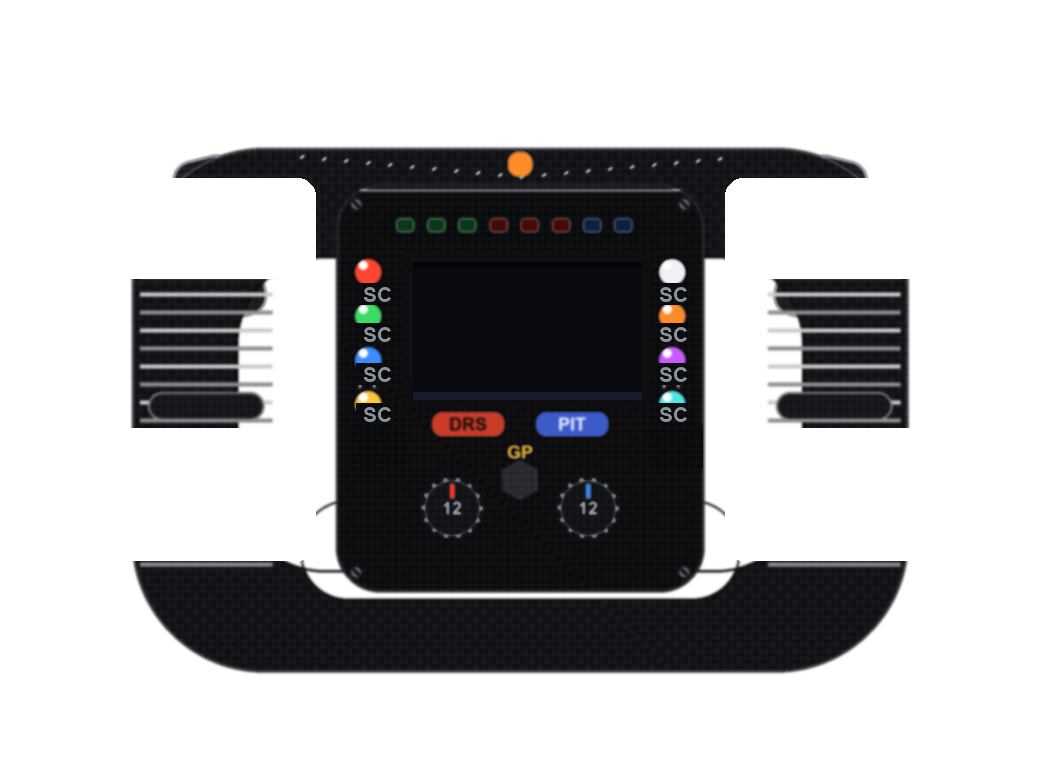
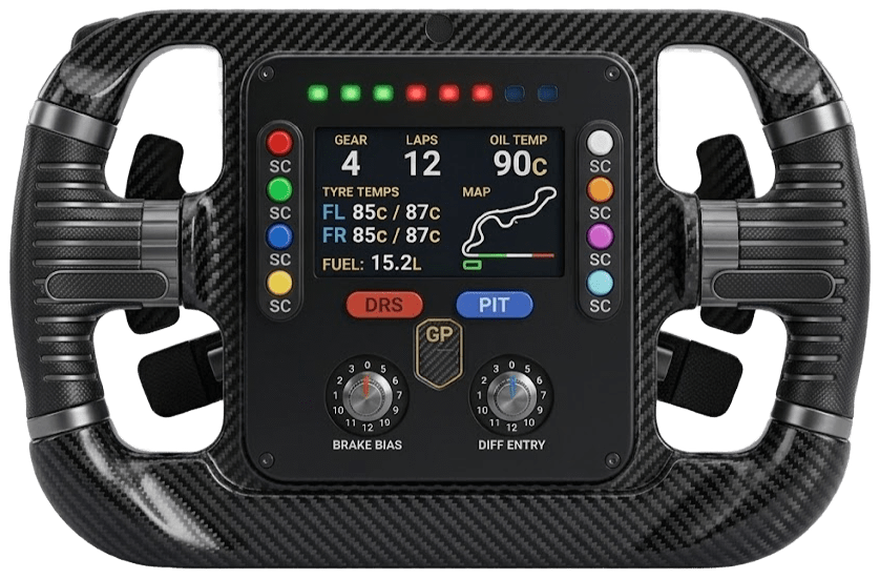
Nuevo volante F1 real: imagen de carbono con huecos, overlays realineados
Generated with [Devin](https://devin.ai)

diff --git a/index.html b/index.html
@@ -251,7 +251,7 @@
   @keyframes wLedBlink { 50% { filter: brightness(0.15); } }
   @keyframes wLedGlint { 0%, 82%, 100% { filter: brightness(1); } 90% { filter: brightness(2.8); } }
   /* Grados de giro: texto naranja muy pequeño sobre el centro del volante */
-  #wheelDeg { position: absolute; left: 50.65%; top: 41.5%; transform: translate(-50%, -50%);
+  #wheelDeg { position: absolute; left: 50.1%; top: 33.3%; transform: translate(-50%, -50%);
     z-index: 7; pointer-events: none; opacity: 1;
     color: #ff9838; font-size: 11px; font-weight: 800; letter-spacing: 1px;
     text-shadow: 0 0 6px rgba(0,0,0,0.95), 0 1px 3px rgba(0,0,0,0.9); }
@@ -1148,21 +1148,21 @@
   <div id="wheelWrap">
     <img id="wheelImg" src="volante.png" alt="">
     <div id="wheelLayer" style="position:absolute;inset:0;transform-origin:50% 50%;opacity:0;transition:opacity .2s">
-      <i class="wled" style="left:38.4%;top:29.2%;background:#34e060;box-shadow:0 0 4px #34e060"></i>
-      <i class="wled" style="left:41.4%;top:29.2%;background:#34e060;box-shadow:0 0 4px #34e060"></i>
-      <i class="wled" style="left:44.4%;top:29.2%;background:#34e060;box-shadow:0 0 4px #34e060"></i>
-      <i class="wled blink" style="left:47.4%;top:29.2%;background:#ff3020;box-shadow:0 0 4px #ff3020"></i>
-      <i class="wled blink" style="left:50.4%;top:29.2%;background:#ff3020;box-shadow:0 0 4px #ff3020"></i>
-      <i class="wled blink" style="left:53.4%;top:29.2%;background:#ff3020;box-shadow:0 0 4px #ff3020"></i>
-      <i class="wled blink" style="left:56.4%;top:29.2%;background:#3080ff;box-shadow:0 0 4px #3080ff;animation-duration:.24s"></i>
-      <i class="wled blink" style="left:59.4%;top:29.2%;background:#3080ff;box-shadow:0 0 4px #3080ff;animation-duration:.24s"></i>
-      <i class="wled glint" style="left:34.4%;top:34.6%;background:#ff3020;box-shadow:0 0 5px #ff3020"></i>
-      <i class="wled glint" style="left:34.4%;top:52%;background:#ffb020;box-shadow:0 0 5px #ffb020;animation-delay:.8s"></i>
-      <i class="wled glint" style="left:63.6%;top:34.6%;background:#fff;box-shadow:0 0 5px #fff;animation-delay:1.4s"></i>
-      <i class="wled glint" style="left:63.6%;top:52%;background:#b040ff;box-shadow:0 0 5px #b040ff;animation-delay:1.9s"></i>
+      <i class="wled" style="left:36.0%;top:16.0%;background:#34e060;box-shadow:0 0 4px #34e060"></i>
+      <i class="wled" style="left:39.9%;top:16.0%;background:#34e060;box-shadow:0 0 4px #34e060"></i>
+      <i class="wled" style="left:43.4%;top:16.0%;background:#34e060;box-shadow:0 0 4px #34e060"></i>
+      <i class="wled blink" style="left:47.3%;top:16.0%;background:#ff3020;box-shadow:0 0 4px #ff3020"></i>
+      <i class="wled blink" style="left:51.0%;top:16.0%;background:#ff3020;box-shadow:0 0 4px #ff3020"></i>
+      <i class="wled blink" style="left:54.8%;top:16.0%;background:#ff3020;box-shadow:0 0 4px #ff3020"></i>
+      <i class="wled blink" style="left:58.5%;top:16.0%;background:#3080ff;box-shadow:0 0 4px #3080ff;animation-duration:.24s"></i>
+      <i class="wled blink" style="left:62.1%;top:16.0%;background:#3080ff;box-shadow:0 0 4px #3080ff;animation-duration:.24s"></i>
+      <i class="wled glint" style="left:31.4%;top:24.0%;background:#ff3020;box-shadow:0 0 5px #ff3020"></i>
+      <i class="wled glint" style="left:31.4%;top:48.5%;background:#ffb020;box-shadow:0 0 5px #ffb020;animation-delay:.8s"></i>
+      <i class="wled glint" style="left:68.0%;top:24.0%;background:#fff;box-shadow:0 0 5px #fff;animation-delay:1.4s"></i>
+      <i class="wled glint" style="left:68.0%;top:48.5%;background:#b040ff;box-shadow:0 0 5px #b040ff;animation-delay:1.9s"></i>
       <div id="wheelDeg">0°</div>
-      <canvas id="wheelRadar" width="120" height="74"
-        style="position:absolute;left:39.6%;top:33.9%;width:22.1%;height:18.7%;opacity:1;border-radius:3px"></canvas>
+      <canvas id="wheelRadar" width="160" height="74"
+        style="position:absolute;left:33.4%;top:20.0%;width:33.4%;height:26.6%;opacity:1;border-radius:6px"></canvas>
     </div>
   </div>
 </div>
